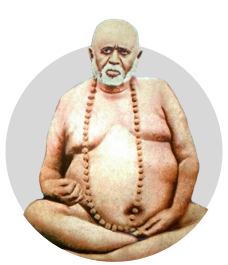
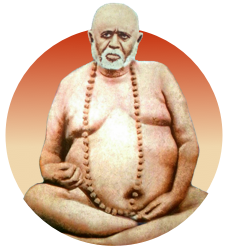
הוספת ריבוע מסביב לתמונה המטושטשת שינויי טקסט והחלפת תמונה בדף פתיחה

diff --git a/app/src/main/assets/html/day11.html b/app/src/main/assets/html/day11.html
@@ -35,7 +35,7 @@
 <div dir="rtl" class="inspiration">
     "לא כובד המשא מכריע אותנו,
     <br>
-    אלא אך שאנחנו נושאים אותו"
+    אלא איך שאנחנו נושאים אותו"
     <br>
     (אנונימי)
 
@@ -89,7 +89,7 @@
 
 <ol>
     <li>האימסה הוא הכוח הגדול ביותר, אנשים שחזקים באהימסה, השנאה נמסה לידם וחיות טרף מתנהגות לידם כמו חיות ביתיות.
-    <li>כל המידות המוסריות טמונים באהימסה.</li>
+    <li>כל המידות המוסריות טמונות באהימסה.</li>
     <li>אהימסה הוא הכוח של הנשמה.</li>
     <li>התרגול בהאימסה מפתח את כוח הרצון למדרגות הגבוהות ביותר.</li>
     <li>אהימסה עוקר כל פחד.</li>
@@ -130,26 +130,25 @@
         <span class="dots"></span>
         <span class="more">
         <br>
-        קל מאוד לפתח את האינטלקט אך קשה לפתח את הלב, אך הכוח של הלב גדול מכוחו של האינטלקט.
+        קל מאוד לפתח את האינטלקט אך קשה לפתח את הלב, הכוח של הלב גדול מכוחו של האינטלקט.
         <br>
-        זו הסיבה ש
-           <b>
-            מאסטרים רבים המליצו על התרגול של אי פגיעה כדרך האפקטיבית לסילוק אלימות ואכזריות.
+            <b>
+              זו הסיבה שמאסטרים רבים המליצו על התרגול של אי פגיעה כדרך האפקטיבית לסילוק אלימות ואכזריות.
                </b>
         <br>
         המסר של האהבה הוא גם המסר המשותף לכל הקדושים, הנביאים והמורים הרוחניים לאורך ההיסטוריה וזו למעשה המוסריות האוניברסלית.
         <br>
             <b>
-        ההתחלה של תרגול אהימסה היא לא לפגוע בעצמינו במחשבה , בדיבור ובמעשה.
+        ההתחלה של תרגול אהימסה היא לא לפגוע בעצמינו במחשבה, בדיבור ובמעשה.
                 </b>
         <br>
             <b>
-        עלי לאתר היכן אני פוגע בעצמי
+        עלי לאתר היכן אני פוגע בעצמי ע"י התבוננות.
                 </b>
-         מחשבות שליליות, לשון הרע, אלימות כלפי חפצים, בע"ח, תזונה לא טובה, רגשות שליליים כגון קנאה כעס וכו',
+            <br>
+         מחשבות שליליות, לשון הרע, אלימות כלפי חפצים, בע"ח, תזונה לא טובה, רגשות שליליים כגון קנאה כעס וכו'.
+           <br>
             <b>
-            ע"י התבוננות.
-              <br>
         ולתרגל אי פגיעה בעצמי ברגע שאני מזהה את זה.
                   </b>
             </span>

diff --git a/app/src/main/assets/html/css/MainAppCSS.css b/app/src/main/assets/html/css/MainAppCSS.css
@@ -4,8 +4,8 @@ html {
 
 body{
 background-color:#F7F8FA;
- padding-right:20px;
-padding-left:20px;
+ padding-right:5vh;
+padding-left:5vh;
  font-family: 'Rubik', sans-serif;
  color:#535352;
  font-size: 18px;
@@ -35,21 +35,7 @@ padding-top:3vh;
   border-radius: 5px;
 
 }
-/*
-.card {
-  box-shadow: 0 4px 8px 0 rgba(0,0,0,0.1);
-  transition: 0.3s;
-  width:auto;
-  height: auto;
-  padding-right:20px;
- padding-left:20px;
-padding-top:20px;
 
- background-color:#FFFFFF;
-
-border-radius: 8px;
-
-}/*
 /*דברי חוכמה */
 .inspiration{
 text-align: center;
@@ -190,7 +176,7 @@ display: none;
   background-size: cover;
   content-justify:center;
   text-align:center;
-  fill:#CB5A09;
+  fill-color:#CB5A09;
   filter: invert(27%) sepia(51%) saturate(2878%) hue-rotate(346deg) brightness(104%) contrast(97%);
 }
 
@@ -202,7 +188,7 @@ display: none;
   width:222px;
   height:222px;
   overflow: hidden;
-  border-radius: 50%;
+  border-radius: 100%;
   display: flex;
   justify-content:space-evenly;
   text-align: center;
@@ -211,9 +197,9 @@ display: none;
 /*תמונה  בראש ההנחיות*/
 .header img {
 position:relative;
-  width: 100vw;
-  height: 100vw;
-    background-position: center;
+  width: 100%;
+  height: 100%;
+  background-position: center;
  z-index:1;
  }
 
@@ -228,16 +214,20 @@ position:relative;
 .bg-image {
 position:relative;
   /* Add the blur effect */
- filter:blur(var(20px,1rem));
-  -webkit-filter:blur(20px);
-    border-radius:8px;
-    width:calc(100vw - 60px);
+  filter: blur(10px) contrast(100%);
+  -webkit-filter: blur(10px) contrast(100%);
+    width:calc(100vw - 70px);
   /* Center and scale the image  */
   background-position: center;
   background-repeat:no-repeat;
   background-size: cover;
   z-index:1;
-}
+  border: solid 1.5em rgba(black,0.3);
+  background-clip:  padding-box;
+
+ }
+
+
 
 .container-image img{
     position: absolute;
@@ -272,7 +262,7 @@ position:relative;
   width:200px;
   height:200px;
   overflow: hidden;
-  border-radius: 50%;
+  border-radius: 100%;
  /* display: flex;*/
 margin:auto;
   justify-content:center;

diff --git a/app/src/main/assets/html/help.html b/app/src/main/assets/html/help.html
@@ -25,21 +25,16 @@
 
 <br>
     <br>
-
    על מנת להשיג תוצאות, להתקדם בדרך היוגה ולהתוודע אל ידע הנשמה, אטמאגיאן, חיוני ביותר לרכוש גישה חדשה וליישם אותה.
-
 <br>
     <br>
-
  כאשר יהפכו ההנחיות המוזכרות להלן לחלק מחיינו,
     על ידי תרגול והתכוונות אמיתית, נקבל אותן ונפעל על פיהן, אזי מובטחת דרכנו על פי היוגה.
-
-
 </div>
 <div dir="rtl" class="names">
 האפליקציה פותחה ע"י ניר פריקמן ולימור חדייר,
 בדיקות אייל ימין,
- עיצוב לירון זנגי.
+ חווית משתמש לירון זנגי.
 
 </div>
 <br>

diff --git a/app/src/main/assets/html/welcome.html b/app/src/main/assets/html/welcome.html
@@ -51,7 +51,7 @@
                 time = pair[1];
             }
         }
- // setTimeout(function(){ window.location.href = nextURL; }, parseInt(time));
+  setTimeout(function(){ window.location.href = nextURL; }, parseInt(time));
      function gotoPage() {
         window.location.href = nextURL;
     }

diff --git a/app/src/main/assets/html/day1.html b/app/src/main/assets/html/day1.html
@@ -42,7 +42,6 @@
     <center>
         <img class="caligraph2" src="App_Pic/caligraph2.svg"/>
     </center>
-
     <hr>
 
 </div>
